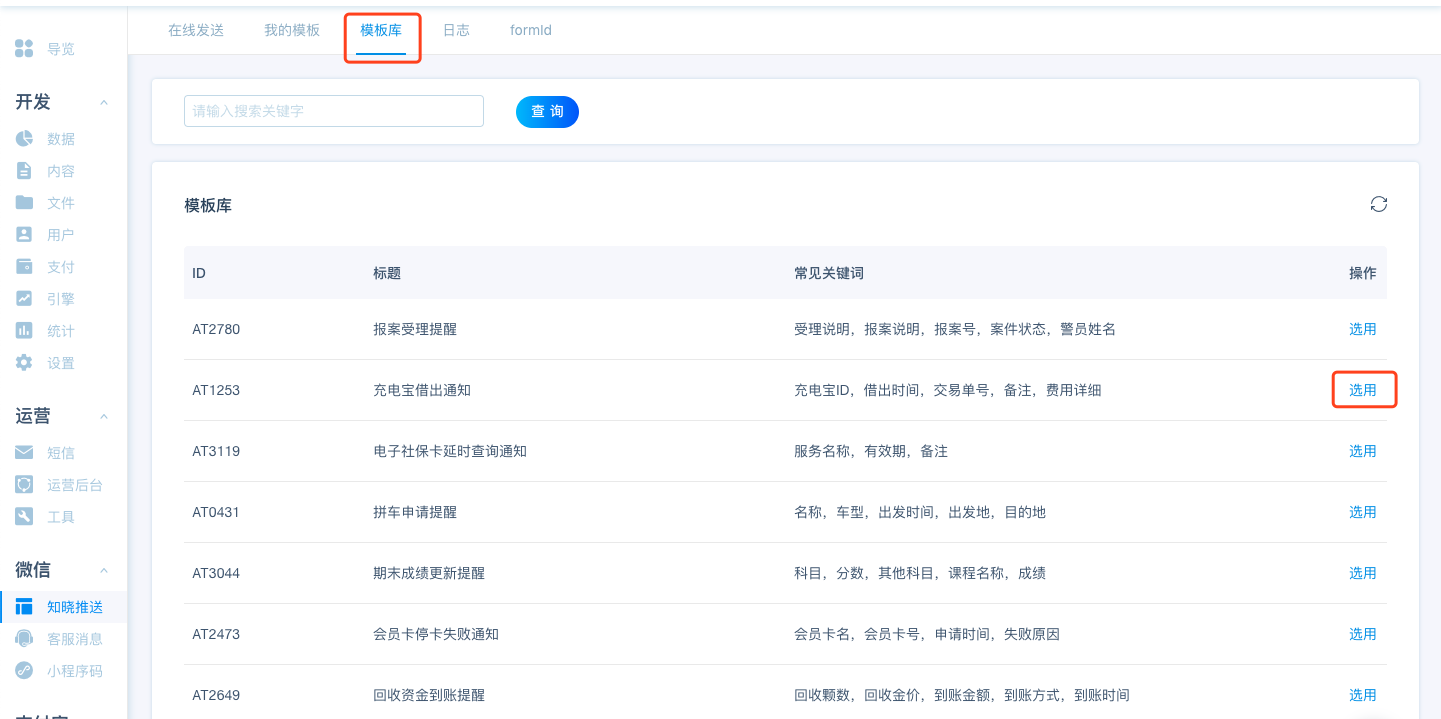
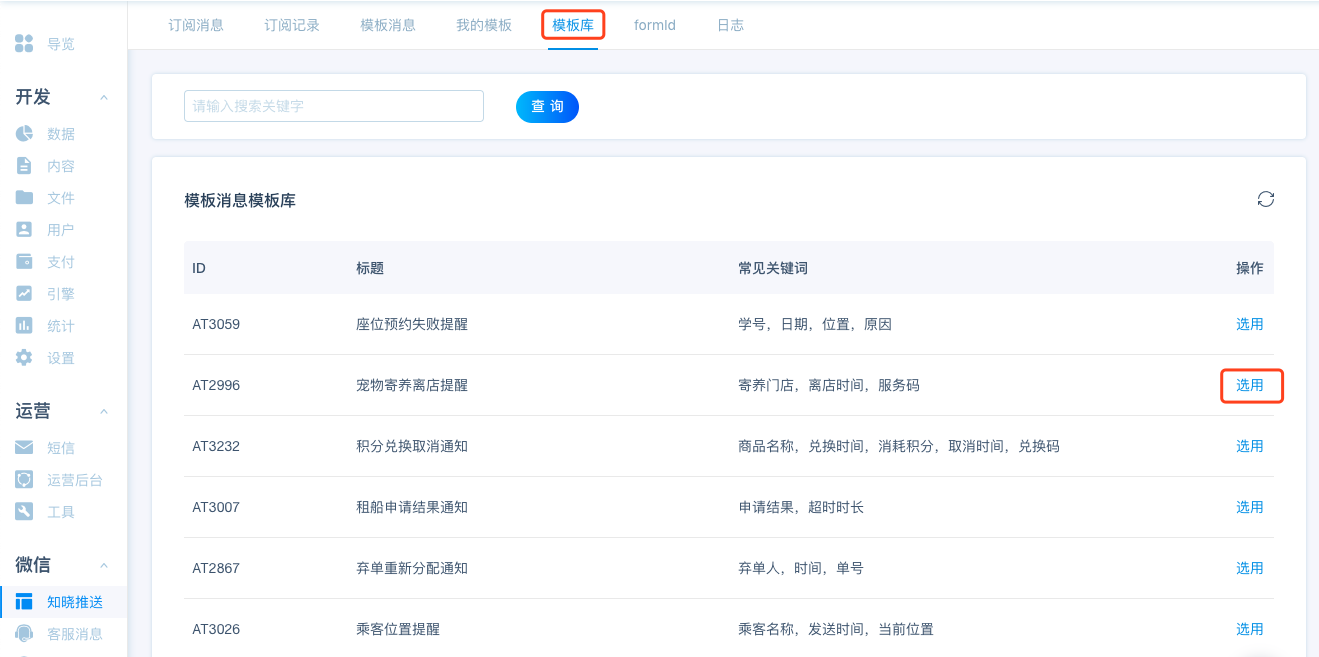
控制台使用指南增加订阅消息文档

diff --git a/dashboard/miniapp/template-message.md b/dashboard/miniapp/template-message.md
@@ -4,6 +4,16 @@
 
 ## 基础操作
 
+### 发送订阅消息
+
+![发送订阅消息](/images/dashboard/miniapp/send-subscribe-message.png)
+
+开发者可以在知晓推送页面手动向目标用户发送订阅消息。
+
+> **info**
+> 注：在微信公众平台手动配置获取审核通过后的模板 ID。
+> 目前仅微信平台支持发送订阅消息。
+
 ### 发送模板消息
 
 ![发送模板消息](/images/dashboard/miniapp/send-message.png)
@@ -11,7 +21,7 @@
 开发者可以在知晓推送页面手动向目标用户发送模板消息。
 
 > **info**
-> 注：有可用 formid 是发送模板消息的必要条件，故需要提前收集 formid。   
+> 注：有可用 formid 是发送模板消息的必要条件，故需要提前收集 formid。    
 > 目前仅微信平台支持同步模板库，其他平台需要手动填写模板 id 同步模板。
 
 ### 智能过滤
@@ -32,11 +42,26 @@
 > 你可以选择 5 分钟后的任意时刻发送，在设定的时间之前可随时取消。   
 > 每日定时任务限额为 10 条，如需提高额度请联系知晓妹微信（minsupport3）。
 
+### 快速发送订阅消息
+
+![快速发送订阅消息](/images/dashboard/miniapp/quickly-send-subscribe-message.png)
+
+选择最近发送记录中的某条记录，点击列表右侧「复制」按钮，可以快速填充历史发送记录，包括订阅消息内容和收件人。 
+
 ### 快速发送模板消息
 
 ![快速发送模板消息](/images/dashboard/miniapp/quickly-send-message.png)
 
 选择最近发送记录中的某条记录，点击列表右侧「复制」按钮，可以快速填充历史发送记录，包括模板消息内容和收件人。
+
+### 查看订阅记录
+
+![查看订阅记录](/images/dashboard/miniapp/check-subscribe-log.png)
+
+点击知晓推送中的「订阅记录」Tab，即可查看当前平台下收集的订阅记录。
+
+> **info**
+> 注：仅微信平台支持查看订阅记录。  
 
 ### 添加模板
 
@@ -54,7 +79,7 @@
 
 ![查看日志](/images/dashboard/miniapp/check-log.png)
 
-点击知晓推送中的「日志」Tab，即可查看当前平台下的模板消息发送日志。
+点击知晓推送中的「日志」Tab，即可查看当前平台下订阅消息和模板消息的发送日志。
 
 ### 查看 formid
 

diff --git a/js-sdk/wechat/subscribe-message.md b/js-sdk/wechat/subscribe-message.md
@@ -29,7 +29,7 @@ Subscription:
 | template_id   | string | 是   | 模版 id |
 | subscription_type  | string | 是   | 订阅类型，目前只支持 `once`（一次性订阅）|
 
-上报模板消息卡片点击事件，只需要在 `app.js` 的 `onShow` 中做一个埋点，其他的事情由 SDK 自动完成。
+用户发生点击行为或者发起支付回调后，调起订阅消息界面，其他的事情由 SDK 自动完成。
 
 **示例代码**
 
